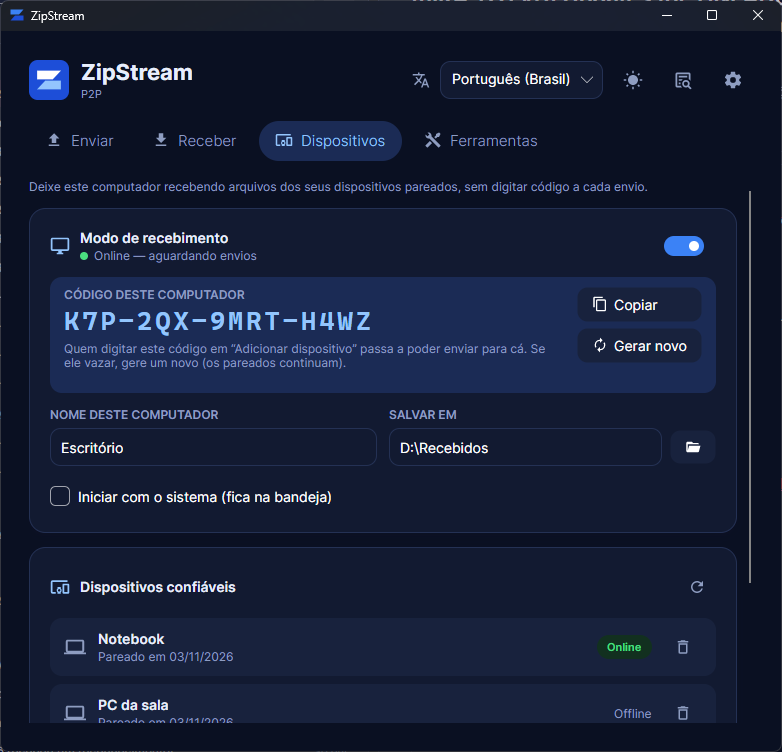
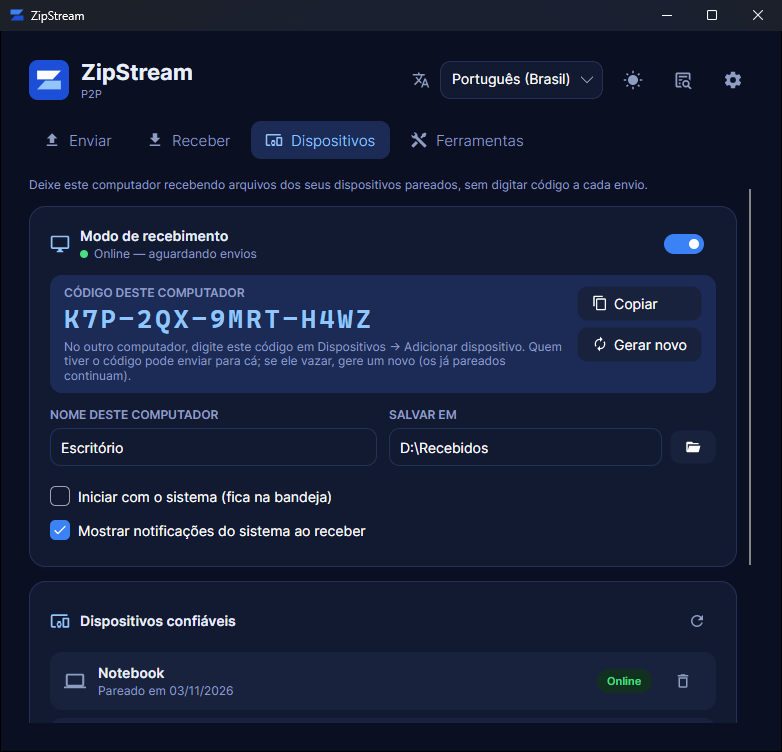
docs: prints atualizados, notificacoes e perfil separado
Prints da aba Dispositivos (claro/escuro) e Receber refeitos com os
textos novos (Adicionar dispositivo, notificacoes), capturados num
perfil separado (ZIPSTREAM_DATA_DIR) com dados de demonstracao. README
e landing page mencionam as notificacoes, a escolha de destino no menu
de contexto e o perfil separado.

diff --git a/docs/index.html b/docs/index.html
@@ -319,7 +319,7 @@
           <ol>
             <li><div><strong>Ligue o modo de recebimento</strong><p>Na aba <strong>Dispositivos</strong>. Com <em>Iniciar com o sistema</em>, ele já fica na bandeja quando o computador liga.</p></div></li>
             <li><div><strong>Pareie uma vez</strong><p>No outro computador, <strong>Adicionar dispositivo</strong> com o código fixo deste (<code>K7P-2QX-9MRT-H4WZ</code>). O código nunca passa pelo servidor; se vazar, gere outro.</p></div></li>
-            <li><div><strong>Envie direto</strong><p>Na aba <strong>Enviar</strong>, escolha o computador pareado. Ele recebe sozinho e extrai na pasta escolhida. Só dispositivos confiáveis conseguem enviar.</p></div></li>
+            <li><div><strong>Envie direto</strong><p>Na aba <strong>Enviar</strong> (ou pelo menu de contexto), escolha o computador pareado. Ele recebe sozinho, extrai na pasta escolhida e avisa com uma notificação do sistema. Só dispositivos confiáveis conseguem enviar.</p></div></li>
           </ol>
         </div>
         <picture>

diff --git a/README.md b/README.md
@@ -47,6 +47,8 @@ Para um computador que fica ligado (ex.: o do escritório) receber arquivos dos 
 - O código do computador é fixo; se vazar, **Gerar novo** invalida o antigo (os dispositivos já pareados continuam). Para tirar um dispositivo, **Remover** na lista.
 - Só dispositivos da lista de confiáveis conseguem enviar; os outros são recusados antes de qualquer byte ser gravado.
 - O ícone da bandeja tem **Modo de recebimento** para ligar/desligar sem abrir a janela.
+- **Notificações do sistema** quando chega um arquivo, quando um dispositivo pareia ou quando um recebimento falha (desligáveis na aba Dispositivos). Windows: notificação nativa (balão da área de notificação, que no Windows 10/11 vira notificação do sistema); Linux: `notify-send`; macOS: `osascript`.
+- **Enviar com ZipStream** (menu de contexto): com dispositivos pareados, a janela compacta pergunta o destino — **Gerar código e enviar** ou um dispositivo pareado. A janela pode ser movida (inclusive para outro monitor).
 
 <p align="center"><img src="docs/img/receive-dark.png" alt="Aba Receber: código de envio e pasta de destino" width="60%" /></p>
 
@@ -134,6 +136,8 @@ Linha de comando:
 | `--close-for-update` | Fecha de verdade a instância aberta, sem ir para a bandeja (usado pelo instalador); se não houver nenhuma, não abre o app |
 
 As configurações ficam em SQLite (`%LOCALAPPDATA%/ZipStream/settings.db`) e são editadas em ⚙ **Configurações**: URL do servidor, porta do servidor local, menu de contexto, atualizações. A pasta de destino é lembrada pela aba Receber. O mesmo banco guarda a identidade do dispositivo (no Windows, a chave privada fica cifrada com DPAPI), o código do receptor e os dispositivos confiáveis.
+
+**Perfil separado:** a variável de ambiente `ZIPSTREAM_DATA_DIR` aponta o app para outra pasta de dados (configurações e transferências), com a própria instância — útil para simular um segundo computador na mesma máquina sem mexer no perfil real (ex.: `ZIPSTREAM_DATA_DIR=C:\temp\pc2`).
 
 **Iniciar com o sistema** (aba Dispositivos): chave `Run` do usuário no Windows, `~/.config/autostart/zipstream.desktop` no Linux e `~/Library/LaunchAgents/com.zipstream.app.plist` no macOS — nada exige administrador.
 
@@ -227,6 +231,7 @@ Se o `dotnet test` abortar com "You must install or update .NET" (ASP.NET Core m
 - [x] Modo de recebimento: pareamento por código fixo, envio sem código, iniciar com o sistema
 - [x] Atualização pelo app (releases do GitHub) e "close for update" no instalador
 - [x] Nova identidade visual (logo, paleta clara/escura)
+- [x] Notificações nativas do modo de recebimento
 - [ ] Instalador Windows assinado
 - [x] Deploy do servidor em produção (Docker + HTTPS via Caddy)
 - [x] Empacotamento do app (instalador Windows e .deb)
